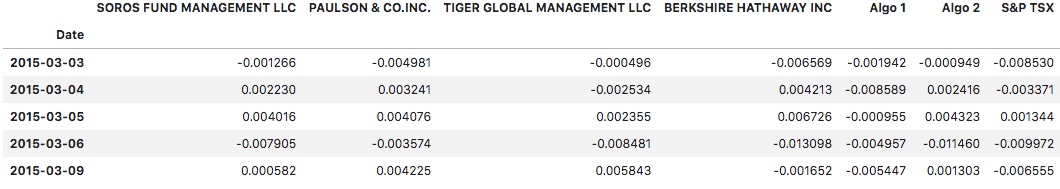
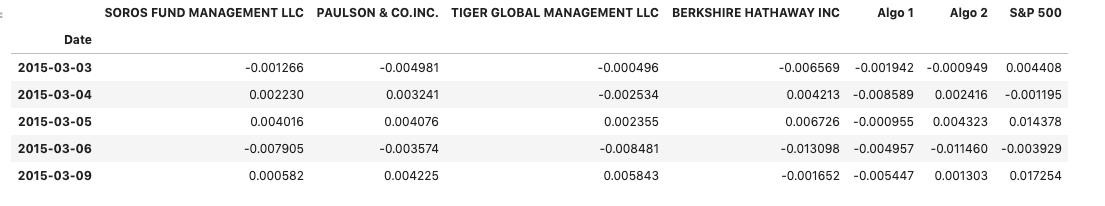
update images

diff --git a/README.md b/README.md
@@ -4,108 +4,87 @@
 
 ## Background
 
-Harold's company has been investing in algorithmic trading strategies. Some of the investment managers love them, some hate them, but they all think their way is best.
 
-You just learned these quantitative analysis techniques with Python and Pandas, so Harold has come to you with a challenge—to help him determine which portfolio is performing the best across multiple areas: volatility, returns, risk, and Sharpe ratios.
+Quantitative analysis techniques with Python and Pandas, for investors to determine which portfolio is performing the best across many areas: volatility, returns, risk, and Sharpe ratios.
 
-You need to create a tool (an analysis notebook) that analyzes and visualizes the major metrics of the portfolios across all of these areas, and determine which portfolio outperformed the others. You will be given the historical daily returns of several portfolios: some from the firm's algorithmic portfolios, some that represent the portfolios of famous "whale" investors like Warren Buffett, and some from the big hedge and mutual funds. You will then use this analysis to create a custom portfolio of stocks and compare its performance to that of the other portfolios, as well as the larger market ([S&P TSX 60 Index](https://en.wikipedia.org/wiki/S%26P/TSX_60)).
+I created a tool (an analysis notebook) that analyzes and visualizes the major metrics of the portfolios across all of these areas, and determine which portfolio outperformed the others. I have used historical daily returns of several portfolios: some from an algorithmic portfolios, some that represent the portfolios of famous "whale" investors like Warren Buffett, and some from the big hedge and mutual funds.
+then I used this analysis to create a custom portfolio of stocks *(TGT ,TJX, WMT)* and compared its performance to that of the other portfolios, as well as the larger market (S&P 500).
+
+-------
+
+### Prepared the Data
+1. Used Pandas to read in each of the [CSV files](Resources) as a DataFrame and converted the dates to a `DateTimeIndex`.
+![read-from-csv](Images/read-data-1.png)
+
+2. Detected and removed null values.
 
 
-### Prepare the Data
 
-First, read and clean several CSV files for analysis. The CSV files include whale portfolio returns, algorithmic trading portfolio returns, and S&P TSX 60 Index historical prices. Use the starter code to complete the following steps:
+ ![null-values](Images/remove-null.png)
 
-1. Use Pandas to read the following CSV files as a DataFrame. Be sure to convert the dates to a `DateTimeIndex`.
+3. Removed dollar signs from the numeric values and converted the data types as needed.
 
-    * `whale_returns.csv`: Contains returns of some famous "whale" investors' portfolios.
 
-    * `algo_returns.csv`: Contains returns from the in-house trading algorithms from Harold's company.
+![fix-data](Images/sp500-with.png)
+ 
+ 
+                ||
+                ||
+                \/
+![fixed-data](Images/sp500-without.png)
 
-    * `sp_tsx_history.csv`: Contains historical closing prices of the S&P TSX 60 Index.
+4. Converted the S&P 500 closing prices to daily returns.
 
-2. Detect and remove null values.
 
-3. If any columns have dollar signs or characters other than numeric values, remove those characters and convert the data types as needed.
+![sp500-returns](Images/sp500-daily-return.png)
 
-4. The whale portfolios and algorithmic portfolio CSV files contain daily returns, but the S&P TSX 60 CSV file contains closing prices. Convert the S&P TSX 60 closing prices to daily returns.
+5. concatenated `Whale Returns`, `Algorithmic Returns`, and the `S&P 500 Returns` into a single DataFrame with columns for each portfolio's returns.
 
-5. Join `Whale Returns`, `Algorithmic Returns`, and the `S&P TSX 60 Returns` into a single DataFrame with columns for each portfolio's returns.
 
-    ![returns-dataframe.png](Images/returns-dataframe.png)
+  ![returns-dataframe.png](Images/returns-dataframe.png)
+  
+ 
+ 
+### Quantitative Analysis
 
-### Conduct Quantitative Analysis
-
-Analyze the data to see if any of the portfolios outperform the stock market (i.e., the S&P TSX 60).
+Analyzed the data to see if any of the portfolios outperform the stock market (i.e., the S&P 500).
 
 #### Performance Analysis
 
-1. Calculate and plot daily returns of all portfolios.
+1. Calculated and plotted cumulative returns. checked if any portfolio outperform the S&P 500.
 
-2. Calculate and plot cumulative returns for all portfolios. Does any portfolio outperform the S&P TSX 60?
+
+![performance](Images/performance.png)
+
 
 #### Risk Analysis
 
-1. Create a box plot for each of the returns. 
+1. Created a box plot for each of the returns. To determine which box has the largest spread and Which has the smallest spread.
 
-2. Calculate the standard deviation for each portfolio. 
+![risk](Images/risk.png)
 
-3. Determine which portfolios are riskier than the S&P TSX 60
+2. Calculated the standard deviation for each portfolio. To determine which portfolios are riskier than the S&P 500.
 
-4. Calculate the Annualized Standard Deviation.
+![standard-devation](Images/std-comprae.png)
 
 #### Rolling Statistics
 
-1. Calculate and plot the rolling standard deviation for all portfolios using a 21-day window.
+1. Plotted the rolling standard deviation of the firm's portfolios along with the rolling standard deviation of the S&P 500. To determine if the risk increase for each of the portfolios at the same time risk increases in the S&P.
 
-2. Calculate and plot the correlation between each stock to determine which portfolios may mimick the S&P TSX 60.
+![rolling](Images/rolling-1.png)
 
-3. Choose one portfolio, then calculate and plot the 60-day rolling beta for it and the S&P TSX 60.
+2. Constructed a correlation table for the algorithmic, whale, and S&P 500 returns.To determine Which returns most closely mimic the S&P.
 
-#### Rolling Statistics Challenge: Exponentially Weighted Average
+![correlation](Images/correlation.png)
 
-An alternative method to calculate a rolling window is to take the exponentially weighted moving average. This is like a moving window average, but it assigns greater importance to more recent observations. Try calculating the [`ewm`](https://pandas.pydata.org/pandas-docs/stable/reference/api/pandas.DataFrame.ewm.html) with a 21-day half-life.
+3. Picked *BERKSHIRE HATHAWAY INC* and plotted a rolling beta between that portfolio's returns and S&P 500 returns. To determine if the portfolio sensitive to movements in the S&P 500.
 
-### Sharpe Ratios
+![beta](Images/beta.png)
 
-Investment managers and their institutional investors look at the return-to-risk ratio, not just the returns. After all, if you have two portfolios that each offer a 10% return, yet one is lower risk, you would invest in the lower-risk portfolio, right?
+### Plot Sharpe Ratios
 
-1. Using the daily returns, calculate and visualize the Sharpe ratios using a bar plot.
+Used the daily returns, calculated and visualized the Sharpe ratios using a bar plot.
 
-2. Determine whether the algorithmic strategies outperform both the market (S&P TSX 60) and the whales portfolios.
+![sharp](Images/sharp-ratio.png)
 
-### Create a Custom Portfolio
-
-Harold is ecstatic that you were able to help him prove that the algorithmic trading portfolios are doing so well compared to the market and whales portfolios. However, now you are wondering whether you can choose your own portfolio that performs just as well as the algorithmic portfolios. Investigate by doing the following:
-
-1. Visit [Google Sheets](https://docs.google.com/spreadsheets/) and use the built-in Google Finance function to choose 3-5 stocks for your portfolio.
-
-2. Download the data as CSV files and calculate the portfolio returns.
-
-3. Calculate the weighted returns for your portfolio, assuming equal number of shares per stock.
-
-4. Add your portfolio returns to the DataFrame with the other portfolios.
-
-5. Run the following analyses:
-
-    * Calculate the Annualized Standard Deviation.
-    * Calculate and plot rolling `std` with a 21-day window.
-    * Calculate and plot the correlation.
-    * Calculate and plot the 60-day rolling beta for your portfolio compared to the S&P 60 TSX.
-    * Calculate the Sharpe ratios and generate a bar plot.
-
-4. How does your portfolio do?
-
----
-
-## Resources
-
-* [Pandas API Docs](https://pandas.pydata.org/pandas-docs/stable/reference/index.html)
-
-* [Exponential weighted function in Pandas](https://pandas.pydata.org/pandas-docs/stable/reference/api/pandas.DataFrame.ewm.html)
-
-* [`GOOGLEFINANCE` function help](https://support.google.com/docs/answer/3093281)
-
-* [Supplemental Guide: Fetching Stock Data Using Google Sheets](../../../01-Lesson-Plans/04-Pandas/Supplemental/googlefinance_guide.md)
-
----
 
